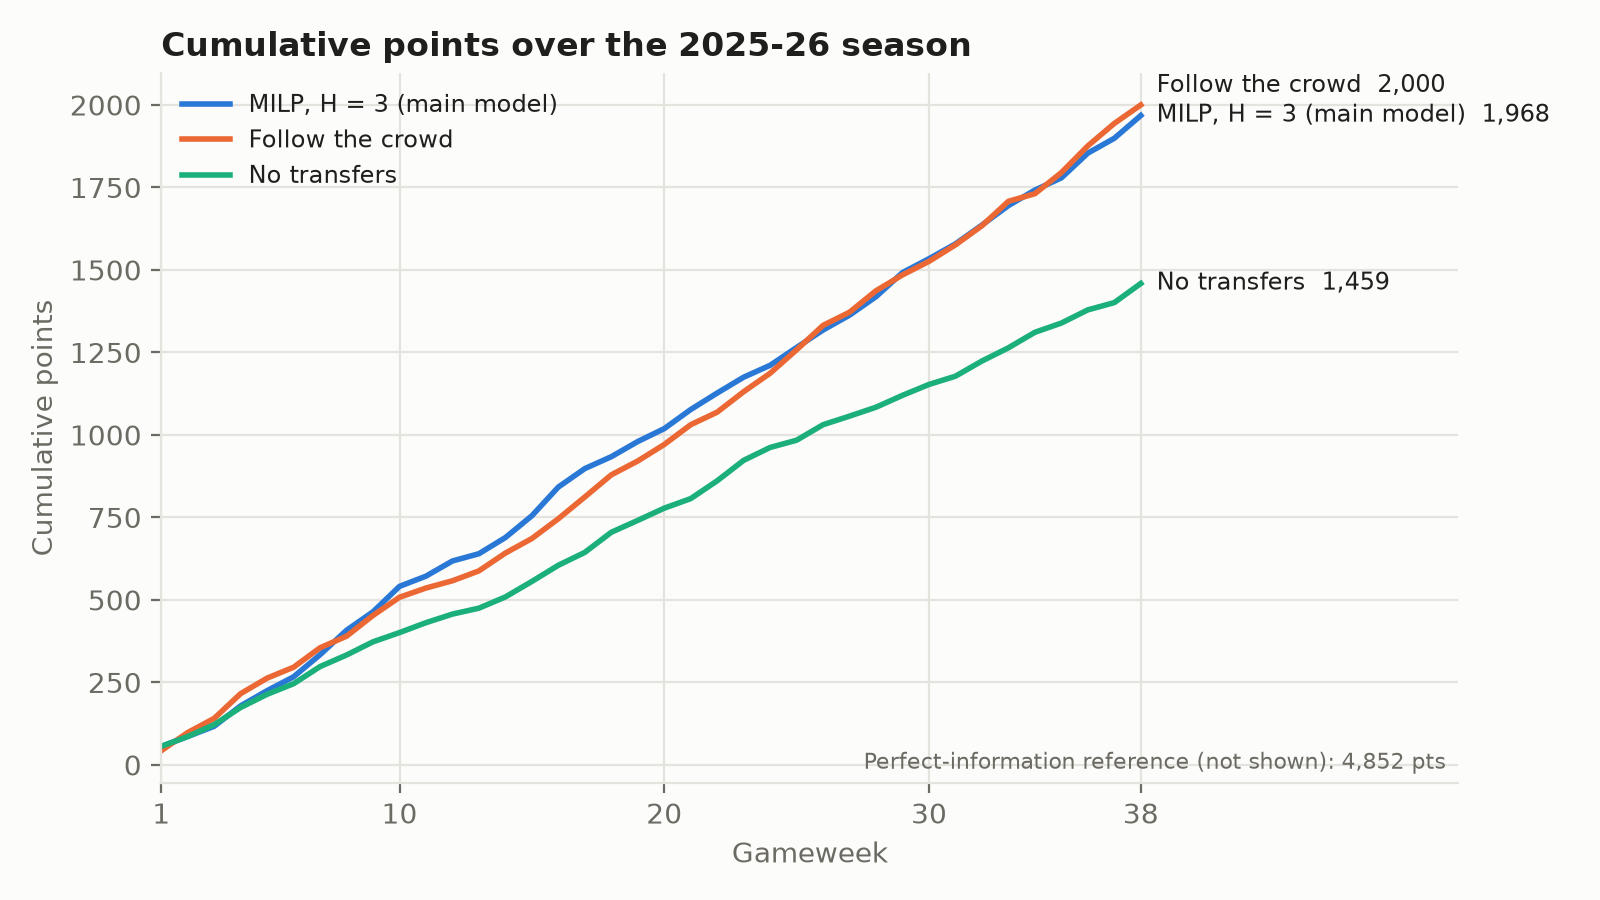
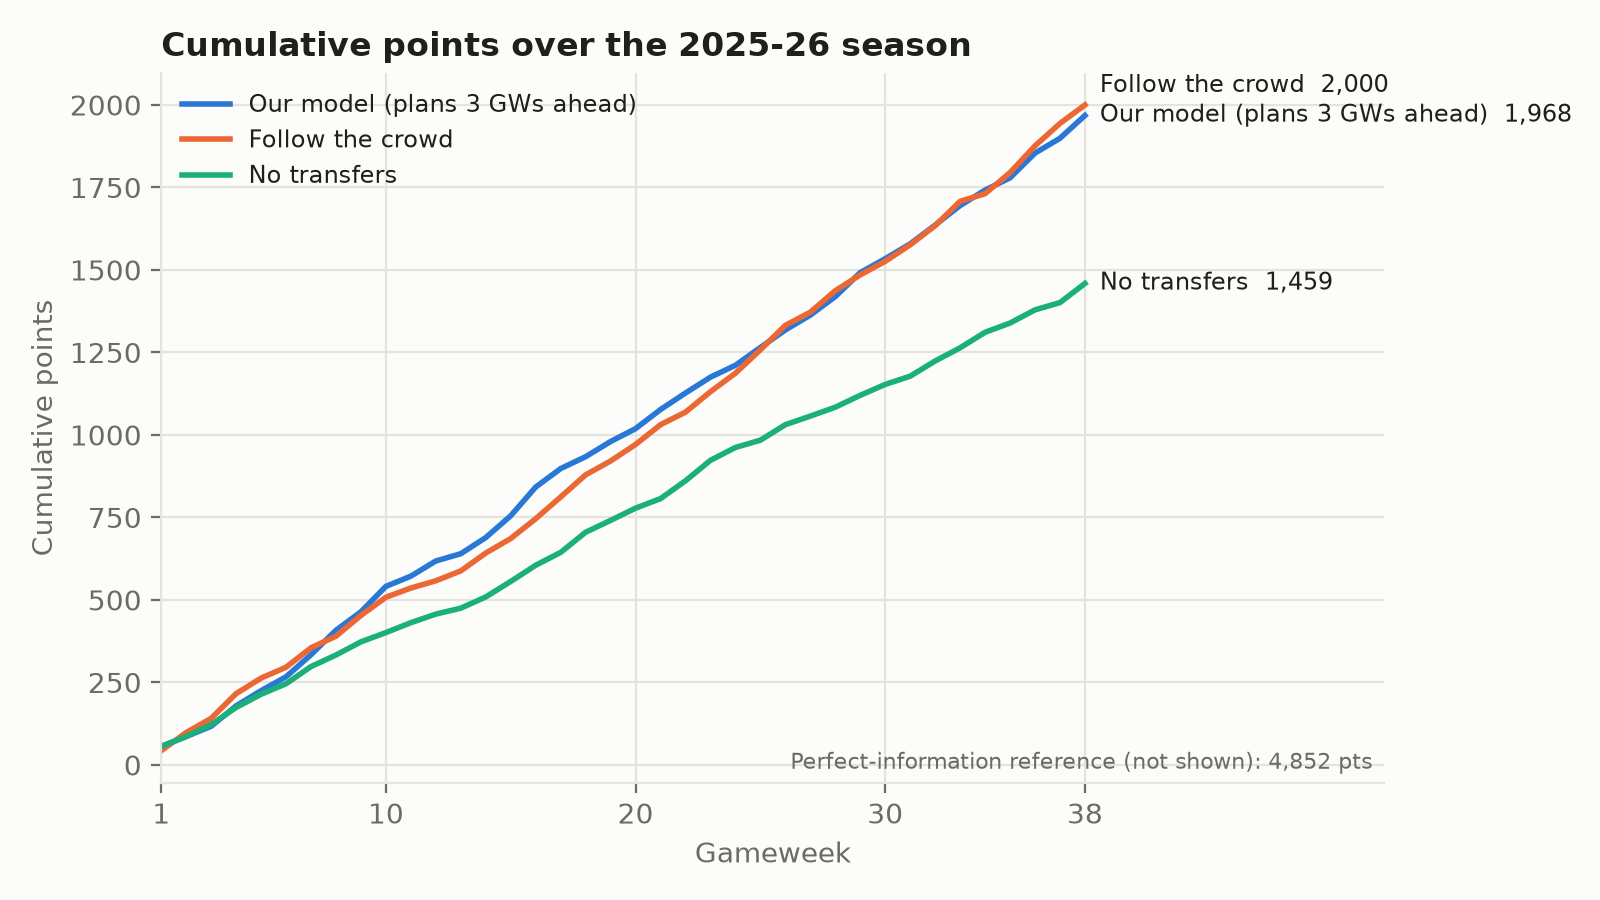
Add week-by-week table, redraw figures with plain labels

diff --git a/results/season_milp_H3.md b/results/season_milp_H3.md
@@ -1,0 +1,44 @@
+# Our model (plans 3 GWs ahead): what it did each GW
+
+One row per gameweek. Expected = expected points of the starting XI with the captain counted twice. Points = real points after automatic substitutions and hit penalties.
+
+| GW | Starting XI (C = captain, V = vice-captain) | Bench | Bought | Sold | Free transfers | Hits | Bank (£m) | Expected | Points | Total |
+|---|---|---|---|---|---|---|---|---|---|---|
+| 1 | Matz Sels, Jeremie Frimpong, Joško Gvardiol, Nikola Milenković, Antoine Semenyo, Bryan Mbeumo (V), Mohamed Salah (C), Florian Wirtz, Yoane Wissa, Chris Wood, Jarrod Bowen | Martin Dúbravka, Álex Moreno Lopera, Justin Devenny, Axel Tuanzebe |  |  | 0 | 0 | 0.0 | 60.6 | 56 | 56 |
+| 2 | Matz Sels, William Saliba, Jeremie Frimpong, Nikola Milenković, Antoine Semenyo, Bryan Mbeumo, Mohamed Salah (C), Florian Wirtz, Rodrigo Muniz Carvalho, Chris Wood (V), Jarrod Bowen | Martin Dúbravka, Justin Devenny, Álex Moreno Lopera, Axel Tuanzebe | William Saliba, Rodrigo Muniz Carvalho | Yoane Wissa, Joško Gvardiol | 1 | 1 | 1.9 | 64.2 | 30 | 86 |
+| 3 | Jordan Pickford, William Saliba, Riccardo Calafiori, Jurriën Timber, Antoine Semenyo (V), Bryan Mbeumo, Mohamed Salah (C), Florian Wirtz, Rodrigo Muniz Carvalho, Chris Wood, Jarrod Bowen | Martin Dúbravka, Nikola Milenković, Justin Devenny, Álex Moreno Lopera | Riccardo Calafiori, Jurriën Timber, Jordan Pickford | Axel Tuanzebe, Jeremie Frimpong, Matz Sels | 1 | 2 | 0.1 | 67.2 | 31 | 117 |
+| 4 | Jordan Pickford, William Saliba, Riccardo Calafiori, Jurriën Timber, Antoine Semenyo (V), Bryan Mbeumo, Enzo Fernández, Mohamed Salah (C), Rodrigo Muniz Carvalho, Chris Wood, Jarrod Bowen | Martin Dúbravka, Nikola Milenković, Justin Devenny, Álex Moreno Lopera | Enzo Fernández | Florian Wirtz | 1 | 0 | 1.9 | 64.8 | 62 | 179 |
+| 5 | Jordan Pickford, Riccardo Calafiori, Jurriën Timber, Marc Guéhi, Antoine Semenyo (V), Bryan Mbeumo, Enzo Fernández, Mohamed Salah (C), Rodrigo Muniz Carvalho, Chris Wood, Jarrod Bowen | Martin Dúbravka, Nikola Milenković, William Saliba, Justin Devenny | Marc Guéhi | Álex Moreno Lopera | 1 | 0 | 1.2 | 65.7 | 46 | 225 |
+| 6 | Jordan Pickford, Riccardo Calafiori, Jurriën Timber, Trevoh Chalobah, Marc Guéhi, Antoine Semenyo (V), Bryan Mbeumo, Enzo Fernández, Mohamed Salah (C), Chris Wood, Jarrod Bowen | Martin Dúbravka, Rodrigo Muniz Carvalho, William Saliba, Justin Devenny | Trevoh Chalobah | Nikola Milenković | 1 | 0 | 1.4 | 64.6 | 42 | 267 |
+| 7 | Jordan Pickford, Jurriën Timber, Trevoh Chalobah, Marc Guéhi, Antoine Semenyo (V), Bryan Mbeumo, Enzo Fernández, Ryan Gravenberch, Erling Haaland (C), Chris Wood, Jarrod Bowen | Martin Dúbravka, Riccardo Calafiori, William Saliba, Justin Devenny | Ryan Gravenberch, Erling Haaland | Rodrigo Muniz Carvalho, Mohamed Salah | 1 | 1 | 1.4 | 65.9 | 67 | 334 |
+| 8 | Jordan Pickford, Gabriel dos Santos Magalhães, Riccardo Calafiori, Jurriën Timber, Marc Guéhi, Antoine Semenyo (V), Bryan Mbeumo, Enzo Fernández, Ryan Gravenberch, Erling Haaland (C), Jarrod Bowen | Martin Dúbravka, Chris Wood, Trevoh Chalobah, Justin Devenny | Gabriel dos Santos Magalhães | William Saliba | 1 | 0 | 1.1 | 66.1 | 74 | 408 |
+| 9 | Jordan Pickford, Gabriel dos Santos Magalhães, Jurriën Timber, Trevoh Chalobah, Marc Guéhi, Antoine Semenyo (V), Bryan Mbeumo, Ismaïla Sarr, Ryan Gravenberch, Erling Haaland (C), Jarrod Bowen | Martin Dúbravka, Chris Wood, Riccardo Calafiori, Justin Devenny | Ismaïla Sarr | Enzo Fernández | 1 | 0 | 1.2 | 65.7 | 56 | 464 |
+| 10 | Jordan Pickford, Gabriel dos Santos Magalhães, Riccardo Calafiori, Jurriën Timber, Marc Guéhi, Antoine Semenyo (V), Bryan Mbeumo, Ismaïla Sarr, Danny Welbeck, Erling Haaland (C), Jarrod Bowen | Martin Dúbravka, Trevoh Chalobah, Ryan Gravenberch, Justin Devenny | Danny Welbeck | Chris Wood | 1 | 0 | 2.0 | 65.0 | 77 | 541 |
+| 11 | Martin Dúbravka, Gabriel dos Santos Magalhães (V), Jurriën Timber, Marc Guéhi, Antoine Semenyo, Bryan Mbeumo, Ismaïla Sarr, Ryan Sessegnon, Danny Welbeck, Erling Haaland (C), Jarrod Bowen | Jordan Pickford, Ryan Gravenberch, Riccardo Calafiori, Trevoh Chalobah | Ryan Sessegnon | Justin Devenny | 1 | 0 | 0.9 | 66.2 | 31 | 572 |
+| 12 | Jordan Pickford, Gabriel dos Santos Magalhães (V), Jurriën Timber, Matheus Nunes, Antoine Semenyo, Bryan Mbeumo, Ismaïla Sarr, Ryan Sessegnon, Danny Welbeck, Erling Haaland (C), Jarrod Bowen | Martin Dúbravka, Ryan Gravenberch, Trevoh Chalobah, Marc Guéhi | Matheus Nunes | Riccardo Calafiori | 1 | 0 | 1.3 | 65.0 | 46 | 618 |
+| 13 | Jordan Pickford, Jurriën Timber, Trevoh Chalobah, Daniel Muñoz Mejía, Matheus Nunes, Leandro Trossard, Bryan Mbeumo (C), Eberechi Eze, Ryan Sessegnon, Danny Welbeck, Erling Haaland (V) | Martin Dúbravka, Jarrod Bowen, Ismaïla Sarr, Marc Guéhi | Leandro Trossard, Daniel Muñoz Mejía, Eberechi Eze | Gabriel dos Santos Magalhães, Antoine Semenyo, Ryan Gravenberch | 1 | 2 | 0.1 | 63.9 | 22 | 640 |
+| 14 | Jordan Pickford, Jurriën Timber, Trevoh Chalobah, Daniel Muñoz Mejía, Matheus Nunes, Dango Ouattara, Bryan Mbeumo (C), Eberechi Eze (V), Ryan Sessegnon, Danny Welbeck, Erling Haaland | Martin Dúbravka, Jarrod Bowen, Leandro Trossard, Marc Guéhi | Dango Ouattara | Ismaïla Sarr | 1 | 0 | 0.6 | 59.2 | 49 | 689 |
+| 15 | Jordan Pickford, Trevoh Chalobah, Daniel Muñoz Mejía (C), Marc Guéhi, Dango Ouattara, Bryan Mbeumo, Eberechi Eze, Ryan Sessegnon, Bruno Guimarães Rodriguez Moura, Danny Welbeck, Erling Haaland (V) | Martin Dúbravka, Jarrod Bowen, Jurriën Timber, Matheus Nunes | Bruno Guimarães Rodriguez Moura | Leandro Trossard | 1 | 0 | 0.7 | 59.6 | 66 | 755 |
+| 16 | Jordan Pickford, Trevoh Chalobah, Maxence Lacroix, Marc Guéhi, Kiernan Dewsbury-Hall, Harry Wilson, Phil Foden (C), Bruno Borges Fernandes (V), Bruno Guimarães Rodriguez Moura, Erling Haaland, Jarrod Bowen | Martin Dúbravka, Matheus Nunes, Danny Welbeck, Daniel Muñoz Mejía | Kiernan Dewsbury-Hall, Maxence Lacroix, Harry Wilson, Phil Foden, Bruno Borges Fernandes | Jurriën Timber, Dango Ouattara, Bryan Mbeumo, Eberechi Eze, Ryan Sessegnon | 5 | 0 | 0.4 | 65.1 | 87 | 842 |
+| 17 | Jordan Pickford, Trevoh Chalobah, Marc Guéhi, Matheus Nunes, Morgan Rogers, Kiernan Dewsbury-Hall, Harry Wilson, Phil Foden (C), Bruno Borges Fernandes (V), Erling Haaland, Jarrod Bowen | Martin Dúbravka, Maxence Lacroix, Danny Welbeck, Daniel Muñoz Mejía | Morgan Rogers | Bruno Guimarães Rodriguez Moura | 1 | 0 | 0.2 | 67.6 | 56 | 898 |
+| 18 | Jordan Pickford, Trevoh Chalobah, Marc Guéhi, Matheus Nunes, Morgan Rogers (C), Harry Wilson, Phil Foden (V), Bruno Borges Fernandes, Erling Haaland, Jarrod Bowen, Dominic Calvert-Lewin | Martin Dúbravka, Maxence Lacroix, Kiernan Dewsbury-Hall, Daniel Muñoz Mejía | Dominic Calvert-Lewin | Danny Welbeck | 1 | 0 | 0.8 | 68.0 | 36 | 934 |
+| 19 | Jordan Pickford, Trevoh Chalobah, Marc Guéhi, Matheus Nunes, Morgan Rogers, Harry Wilson, Florian Wirtz, Phil Foden (C), Erling Haaland (V), Jarrod Bowen, Dominic Calvert-Lewin | Martin Dúbravka, Maxence Lacroix, Daniel Muñoz Mejía, Kiernan Dewsbury-Hall | Florian Wirtz | Bruno Borges Fernandes | 1 | 0 | 1.7 | 65.5 | 46 | 980 |
+| 20 | Jordan Pickford, Marc Guéhi, James Tarkowski, Matheus Nunes, Morgan Rogers, Harry Wilson, Florian Wirtz, Phil Foden (V), Erling Haaland (C), Jarrod Bowen, Dominic Calvert-Lewin | Martin Dúbravka, Trevoh Chalobah, Maxence Lacroix, Kiernan Dewsbury-Hall | James Tarkowski | Daniel Muñoz Mejía | 1 | 0 | 1.9 | 65.6 | 39 | 1019 |
+| 21 | Jordan Pickford, Nathan Collins, James Tarkowski, Matheus Nunes, Morgan Rogers, Harry Wilson, Florian Wirtz (C), Phil Foden, Erling Haaland (V), Jarrod Bowen, Dominic Calvert-Lewin | Martin Dúbravka, Trevoh Chalobah, Marc Guéhi, Kiernan Dewsbury-Hall | Nathan Collins | Maxence Lacroix | 1 | 0 | 2.1 | 61.2 | 58 | 1077 |
+| 22 | Jordan Pickford, Nathan Collins (V), James Tarkowski, Matheus Nunes, Morgan Rogers, Kevin Schade (C), Harry Wilson, Florian Wirtz, Erling Haaland, Jarrod Bowen, Dominic Calvert-Lewin | Martin Dúbravka, Trevoh Chalobah, Marc Guéhi, Kiernan Dewsbury-Hall | Kevin Schade | Phil Foden | 1 | 0 | 3.7 | 62.7 | 50 | 1127 |
+| 23 | Jordan Pickford, Gabriel dos Santos Magalhães, Nathan Collins (V), James Tarkowski, Morgan Rogers, Kevin Schade, Harry Wilson, Florian Wirtz (C), Erling Haaland, Jarrod Bowen, Dominic Calvert-Lewin | Martin Dúbravka, Trevoh Chalobah, Matheus Nunes, Kiernan Dewsbury-Hall | Gabriel dos Santos Magalhães | Marc Guéhi | 1 | 0 | 1.7 | 60.6 | 48 | 1175 |
+| 24 | Jordan Pickford, Gabriel dos Santos Magalhães, Nathan Collins, James Tarkowski, Morgan Rogers, Bryan Mbeumo (C), Kevin Schade, Harry Wilson, Florian Wirtz (V), Ollie Watkins, Jarrod Bowen | Martin Dúbravka, Matheus Nunes, Trevoh Chalobah, Dominic Calvert-Lewin | Ollie Watkins, Bryan Mbeumo | Kiernan Dewsbury-Hall, Erling Haaland | 1 | 1 | 4.1 | 62.0 | 36 | 1211 |
+| 25 | Jordan Pickford, Gabriel dos Santos Magalhães, Nathan Collins, James Tarkowski, Matheus Nunes, Declan Rice, Bryan Mbeumo, Harry Wilson, Florian Wirtz (V), Bruno Borges Fernandes (C), Jarrod Bowen | Martin Dúbravka, Trevoh Chalobah, Ollie Watkins, Dominic Calvert-Lewin | Declan Rice, Bruno Borges Fernandes | Morgan Rogers, Kevin Schade | 1 | 1 | 1.2 | 61.7 | 54 | 1265 |
+| 26 | Jordan Pickford, Gabriel dos Santos Magalhães (C), William Saliba, Trevoh Chalobah, Declan Rice (V), Bryan Mbeumo, Harry Wilson, Florian Wirtz, Bruno Borges Fernandes, Ollie Watkins, Jarrod Bowen | Martin Dúbravka, Matheus Nunes, James Tarkowski, Dominic Calvert-Lewin | William Saliba | Nathan Collins | 1 | 0 | 0.0 | 77.3 | 53 | 1318 |
+| 27 | Jordan Pickford, Gabriel dos Santos Magalhães, Trevoh Chalobah, Matheus Nunes, Declan Rice, Bryan Mbeumo (C), Harry Wilson, Florian Wirtz, Bruno Borges Fernandes, João Pedro Junqueira de Jesus (V), Jarrod Bowen | Martin Dúbravka, James Tarkowski, William Saliba, Dominic Calvert-Lewin | João Pedro Junqueira de Jesus | Ollie Watkins | 1 | 0 | 0.9 | 59.6 | 45 | 1363 |
+| 28 | Jordan Pickford, Gabriel dos Santos Magalhães, Trevoh Chalobah, Matheus Nunes, Bryan Mbeumo, Cole Palmer (C), Harry Wilson, Bruno Borges Fernandes, Mateus Gonçalo Espanha Fernandes, João Pedro Junqueira de Jesus (V), Jarrod Bowen | Martin Dúbravka, William Saliba, James Tarkowski, Dominic Calvert-Lewin | Cole Palmer, Mateus Gonçalo Espanha Fernandes | Declan Rice, Florian Wirtz | 1 | 1 | 0.6 | 62.9 | 56 | 1419 |
+| 29 | Jordan Pickford, Gabriel dos Santos Magalhães, Virgil van Dijk, Matheus Nunes, Bryan Mbeumo, Cole Palmer (C), Harry Wilson, Bruno Borges Fernandes, Mateus Gonçalo Espanha Fernandes, João Pedro Junqueira de Jesus (V), Jarrod Bowen | Martin Dúbravka, William Saliba, Trevoh Chalobah, Dominic Calvert-Lewin | Virgil van Dijk | James Tarkowski | 1 | 0 | 0.1 | 63.1 | 73 | 1492 |
+| 30 | Jordan Pickford, Gabriel dos Santos Magalhães, Virgil van Dijk, Matheus Nunes, Aaron Wan-Bissaka, Bryan Mbeumo, Cole Palmer (V), Bruno Borges Fernandes, Mateus Gonçalo Espanha Fernandes, João Pedro Junqueira de Jesus (C), Jarrod Bowen | Martin Dúbravka, Trevoh Chalobah, Dominic Calvert-Lewin, Harry Wilson | Aaron Wan-Bissaka | William Saliba | 1 | 0 | 2.1 | 61.0 | 42 | 1534 |
+| 31 | Jordan Pickford, Trevoh Chalobah, Virgil van Dijk, Aaron Wan-Bissaka, Bryan Mbeumo, Cole Palmer (C), Harry Wilson, Dominik Szoboszlai, Bruno Borges Fernandes (V), João Pedro Junqueira de Jesus, Jarrod Bowen | Martin Dúbravka, Dominic Calvert-Lewin, Gabriel dos Santos Magalhães, Matheus Nunes | Dominik Szoboszlai | Mateus Gonçalo Espanha Fernandes | 1 | 0 | 0.6 | 59.0 | 45 | 1579 |
+| 32 | Jordan Pickford, Gabriel dos Santos Magalhães, Virgil van Dijk, Neco Williams, Antoine Semenyo (V), Cole Palmer, Harry Wilson, Dominik Szoboszlai, Bruno Borges Fernandes (C), João Pedro Junqueira de Jesus, Jarrod Bowen | Martin Dúbravka, Matheus Nunes, Aaron Wan-Bissaka, Dominic Calvert-Lewin | Antoine Semenyo, Neco Williams | Bryan Mbeumo, Trevoh Chalobah | 1 | 1 | 1.5 | 61.8 | 57 | 1636 |
+| 33 | Martin Dúbravka, Gabriel dos Santos Magalhães, Matheus Nunes, Neco Williams, Antoine Semenyo, Cole Palmer, Harry Wilson, Bruno Borges Fernandes, Danny Welbeck (C), João Pedro Junqueira de Jesus (V), Jarrod Bowen | Jordan Pickford, Virgil van Dijk, Dominik Szoboszlai, Aaron Wan-Bissaka | Danny Welbeck | Dominic Calvert-Lewin | 1 | 0 | 0.8 | 85.9 | 59 | 1695 |
+| 34 | Jordan Pickford, Gabriel dos Santos Magalhães, Virgil van Dijk, Neco Williams, Harry Wilson, Mohamed Salah, Dominik Szoboszlai, Bruno Borges Fernandes (C), Morgan Gibbs-White (V), Norberto Bercique Gomes Betuncal, Jarrod Bowen | Martin Dúbravka, Aaron Wan-Bissaka, Danny Welbeck, Matheus Nunes | Norberto Bercique Gomes Betuncal, Mohamed Salah, Morgan Gibbs-White | Antoine Semenyo, Cole Palmer, João Pedro Junqueira de Jesus | 1 | 2 | 0.7 | 65.2 | 47 | 1742 |
+| 35 | Gianluigi Donnarumma, Gabriel dos Santos Magalhães, Maxence Lacroix, Neco Williams, Ismaïla Sarr, Mohamed Salah (V), Dominik Szoboszlai, Bruno Borges Fernandes, Morgan Gibbs-White (C), Danny Welbeck, Jarrod Bowen | Martin Dúbravka, Matheus Nunes, Norberto Bercique Gomes Betuncal, Aaron Wan-Bissaka | Maxence Lacroix, Ismaïla Sarr, Gianluigi Donnarumma | Jordan Pickford, Harry Wilson, Virgil van Dijk | 1 | 2 | 1.0 | 64.3 | 37 | 1779 |
+| 36 | Gianluigi Donnarumma, Daniel Muñoz Mejía, Maxence Lacroix (V), Matheus Nunes, Neco Williams, Ismaïla Sarr, Dominik Szoboszlai, Jérémy Doku (C), Bruno Borges Fernandes, Morgan Gibbs-White, Jarrod Bowen | Martin Dúbravka, Gabriel dos Santos Magalhães, Danny Welbeck, Norberto Bercique Gomes Betuncal | Daniel Muñoz Mejía, Jérémy Doku | Mohamed Salah, Aaron Wan-Bissaka | 1 | 1 | 6.7 | 85.8 | 75 | 1854 |
+| 37 | Gianluigi Donnarumma, Gabriel dos Santos Magalhães, Marc Guéhi (V), Neco Williams, Dominik Szoboszlai, Jérémy Doku (C), Bruno Borges Fernandes, Morgan Gibbs-White, Danny Welbeck, Norberto Bercique Gomes Betuncal, Jarrod Bowen | Martin Dúbravka, Maxence Lacroix, Daniel Muñoz Mejía, Ismaïla Sarr | Marc Guéhi | Matheus Nunes | 1 | 0 | 6.9 | 59.2 | 45 | 1899 |
+| 38 | Gianluigi Donnarumma, Gabriel dos Santos Magalhães, Daniel Muñoz Mejía, Marc Guéhi, Dominik Szoboszlai, Jérémy Doku, Bruno Borges Fernandes, Morgan Gibbs-White (V), Ollie Watkins (C), Norberto Bercique Gomes Betuncal, Jarrod Bowen | Martin Dúbravka, Ismaïla Sarr, Neco Williams, Maxence Lacroix | Ollie Watkins | Danny Welbeck | 1 | 0 | 4.5 | 60.5 | 69 | 1968 |
